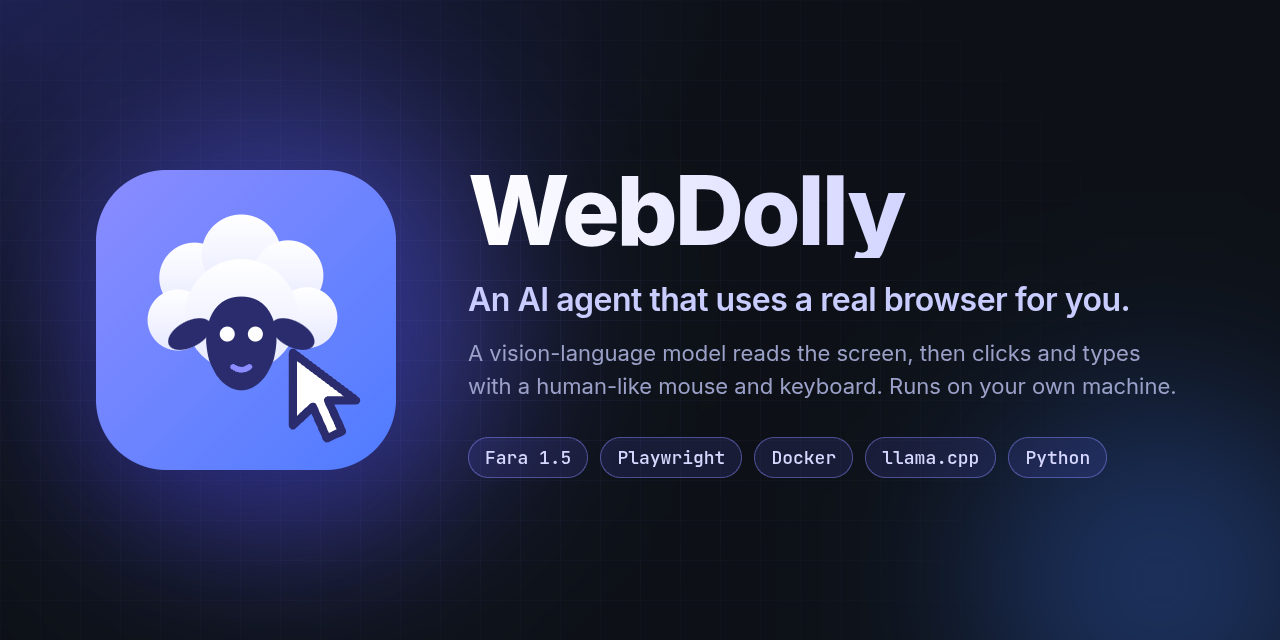
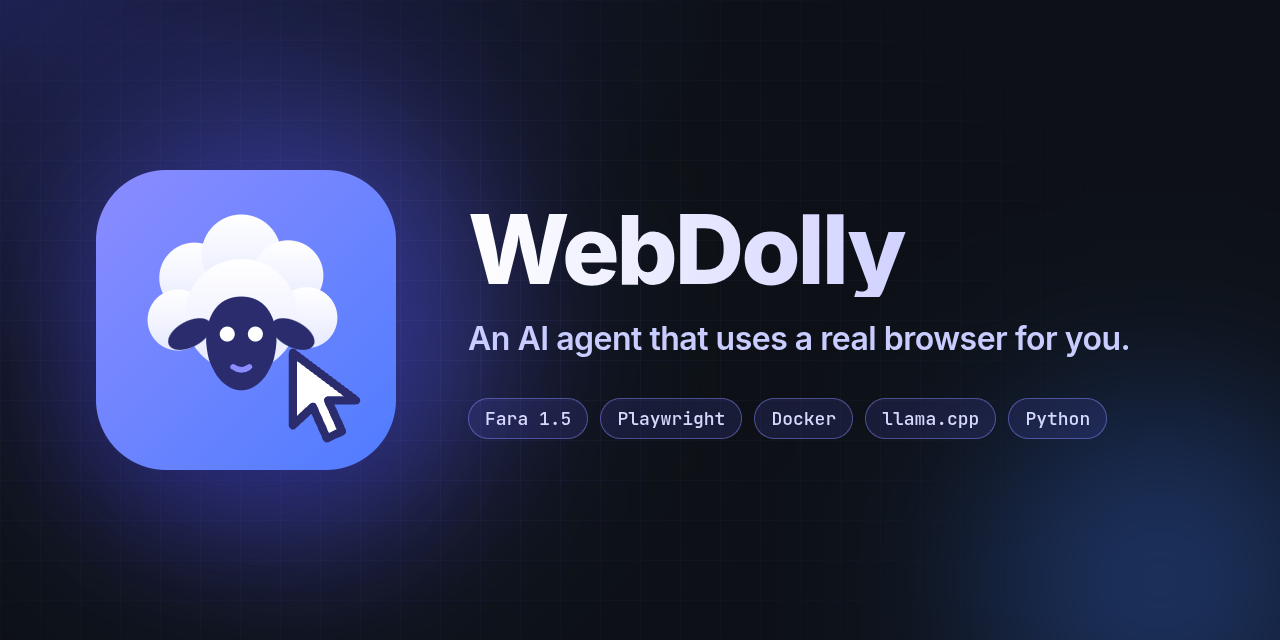
docs: plainer social preview; the README opening says how the agent works

Changed region(s): [[0.3438, 0.25, 0.9062, 0.5625], [0.3438, 0.5938, 0.9062, 0.75]]

diff --git a/README.md b/README.md
@@ -10,10 +10,17 @@
   <img alt="Windows | Linux" src="https://img.shields.io/badge/platform-Windows%20%7C%20Linux-5b5cf0?style=flat-square">
 </p>
 
-WebDolly is an agent that uses a real browser for you. A vision-language model
-([Fara 1.5](https://huggingface.co/microsoft/Fara1.5-27B)) looks at screenshots
-and decides where to click and what to type. You describe who you are (context)
-and what to do (task) in a small web panel, and the agent does it.
+WebDolly is an agent that uses a real browser for you. You describe who you are
+(context) and what to do (task) in plain words in a small web panel, and a
+vision-language model ([Fara 1.5](https://huggingface.co/microsoft/Fara1.5-27B))
+looks at the screen and decides where to click and what to type.
+
+You write no script: no selectors, no recorded steps. The agent works from what
+is on the screen, so a page it has never seen, a page that changed its layout, a
+pop-up or a form that rejects an answer is simply the next screenshot to deal
+with. Every click, scroll and keystroke is real mouse and keyboard input in a
+real Chromium window: the pointer travels to its target and typing has a rhythm.
+Playwright is only used to read the page and open addresses.
 
 The task is free text, so it can drive any website. What the agent knows about a
 particular site lives in a **site profile** (see [docs/site-profiles.md](docs/site-profiles.md)):
